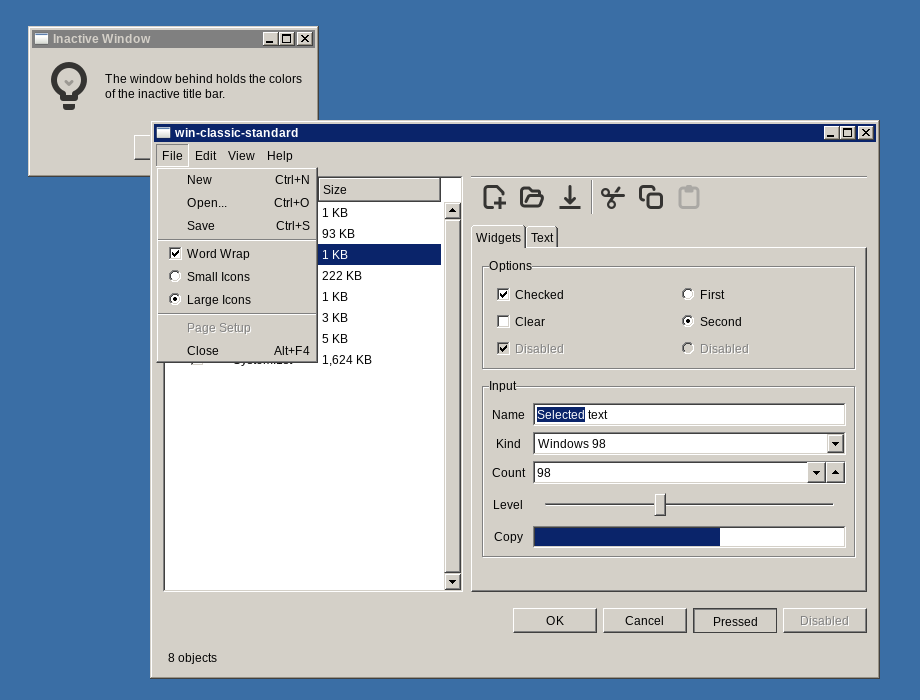
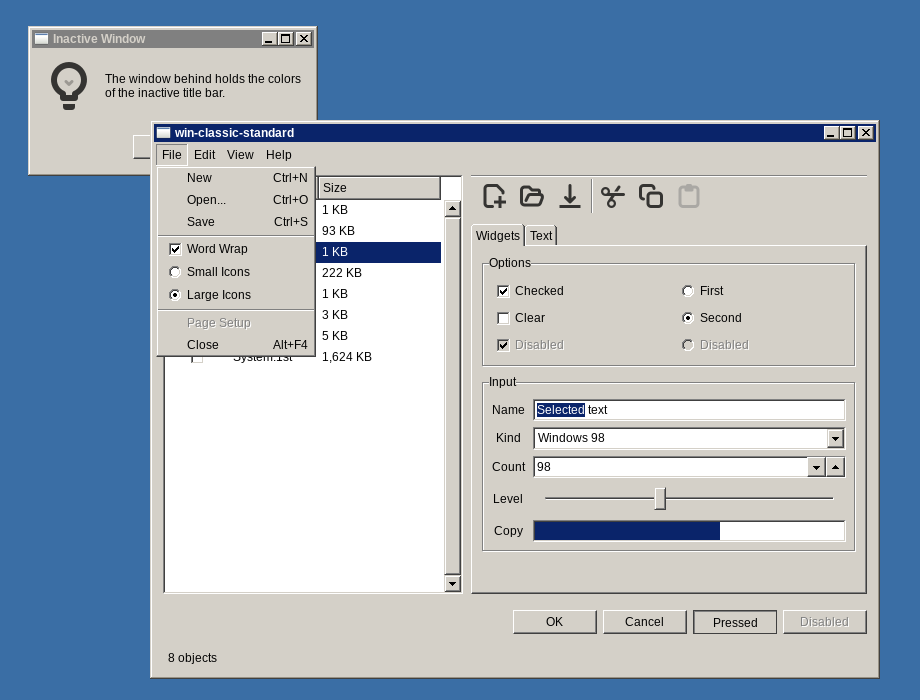
Normalize GTK font rendering at 96 DPI

diff --git a/README.md b/README.md
@@ -108,7 +108,8 @@ calculates the two 3D edges and the disabled text from `bgcolor`. See
 
 ## NixOS
 
-The overlay puts `win-classic-theme` in `pkgs`:
+The overlay puts `win-classic-theme` in `pkgs`. The NixOS module writes the
+global GTK4 font settings when `programs.win-classic-theme.enabled` is true:
 
 ```nix
 {
@@ -123,11 +124,18 @@ The overlay puts `win-classic-theme` in `pkgs`:
       nixosConfigurations.desktop = nixpkgs.lib.nixosSystem {
         system = "x86_64-linux";
         modules = [
+          win-classic-theme.nixosModules.default
           { nixpkgs.overlays = [ win-classic-theme.overlays.default ]; }
           (
             { pkgs, ... }:
             {
               environment.systemPackages = [ pkgs.win-classic-theme ];
+              programs.win-classic-theme = {
+                enabled = true;
+                gtk4ExtraSettings = ''
+                  gtk-font-name=Liberation Sans 9
+                '';
+              };
             }
           )
         ];
